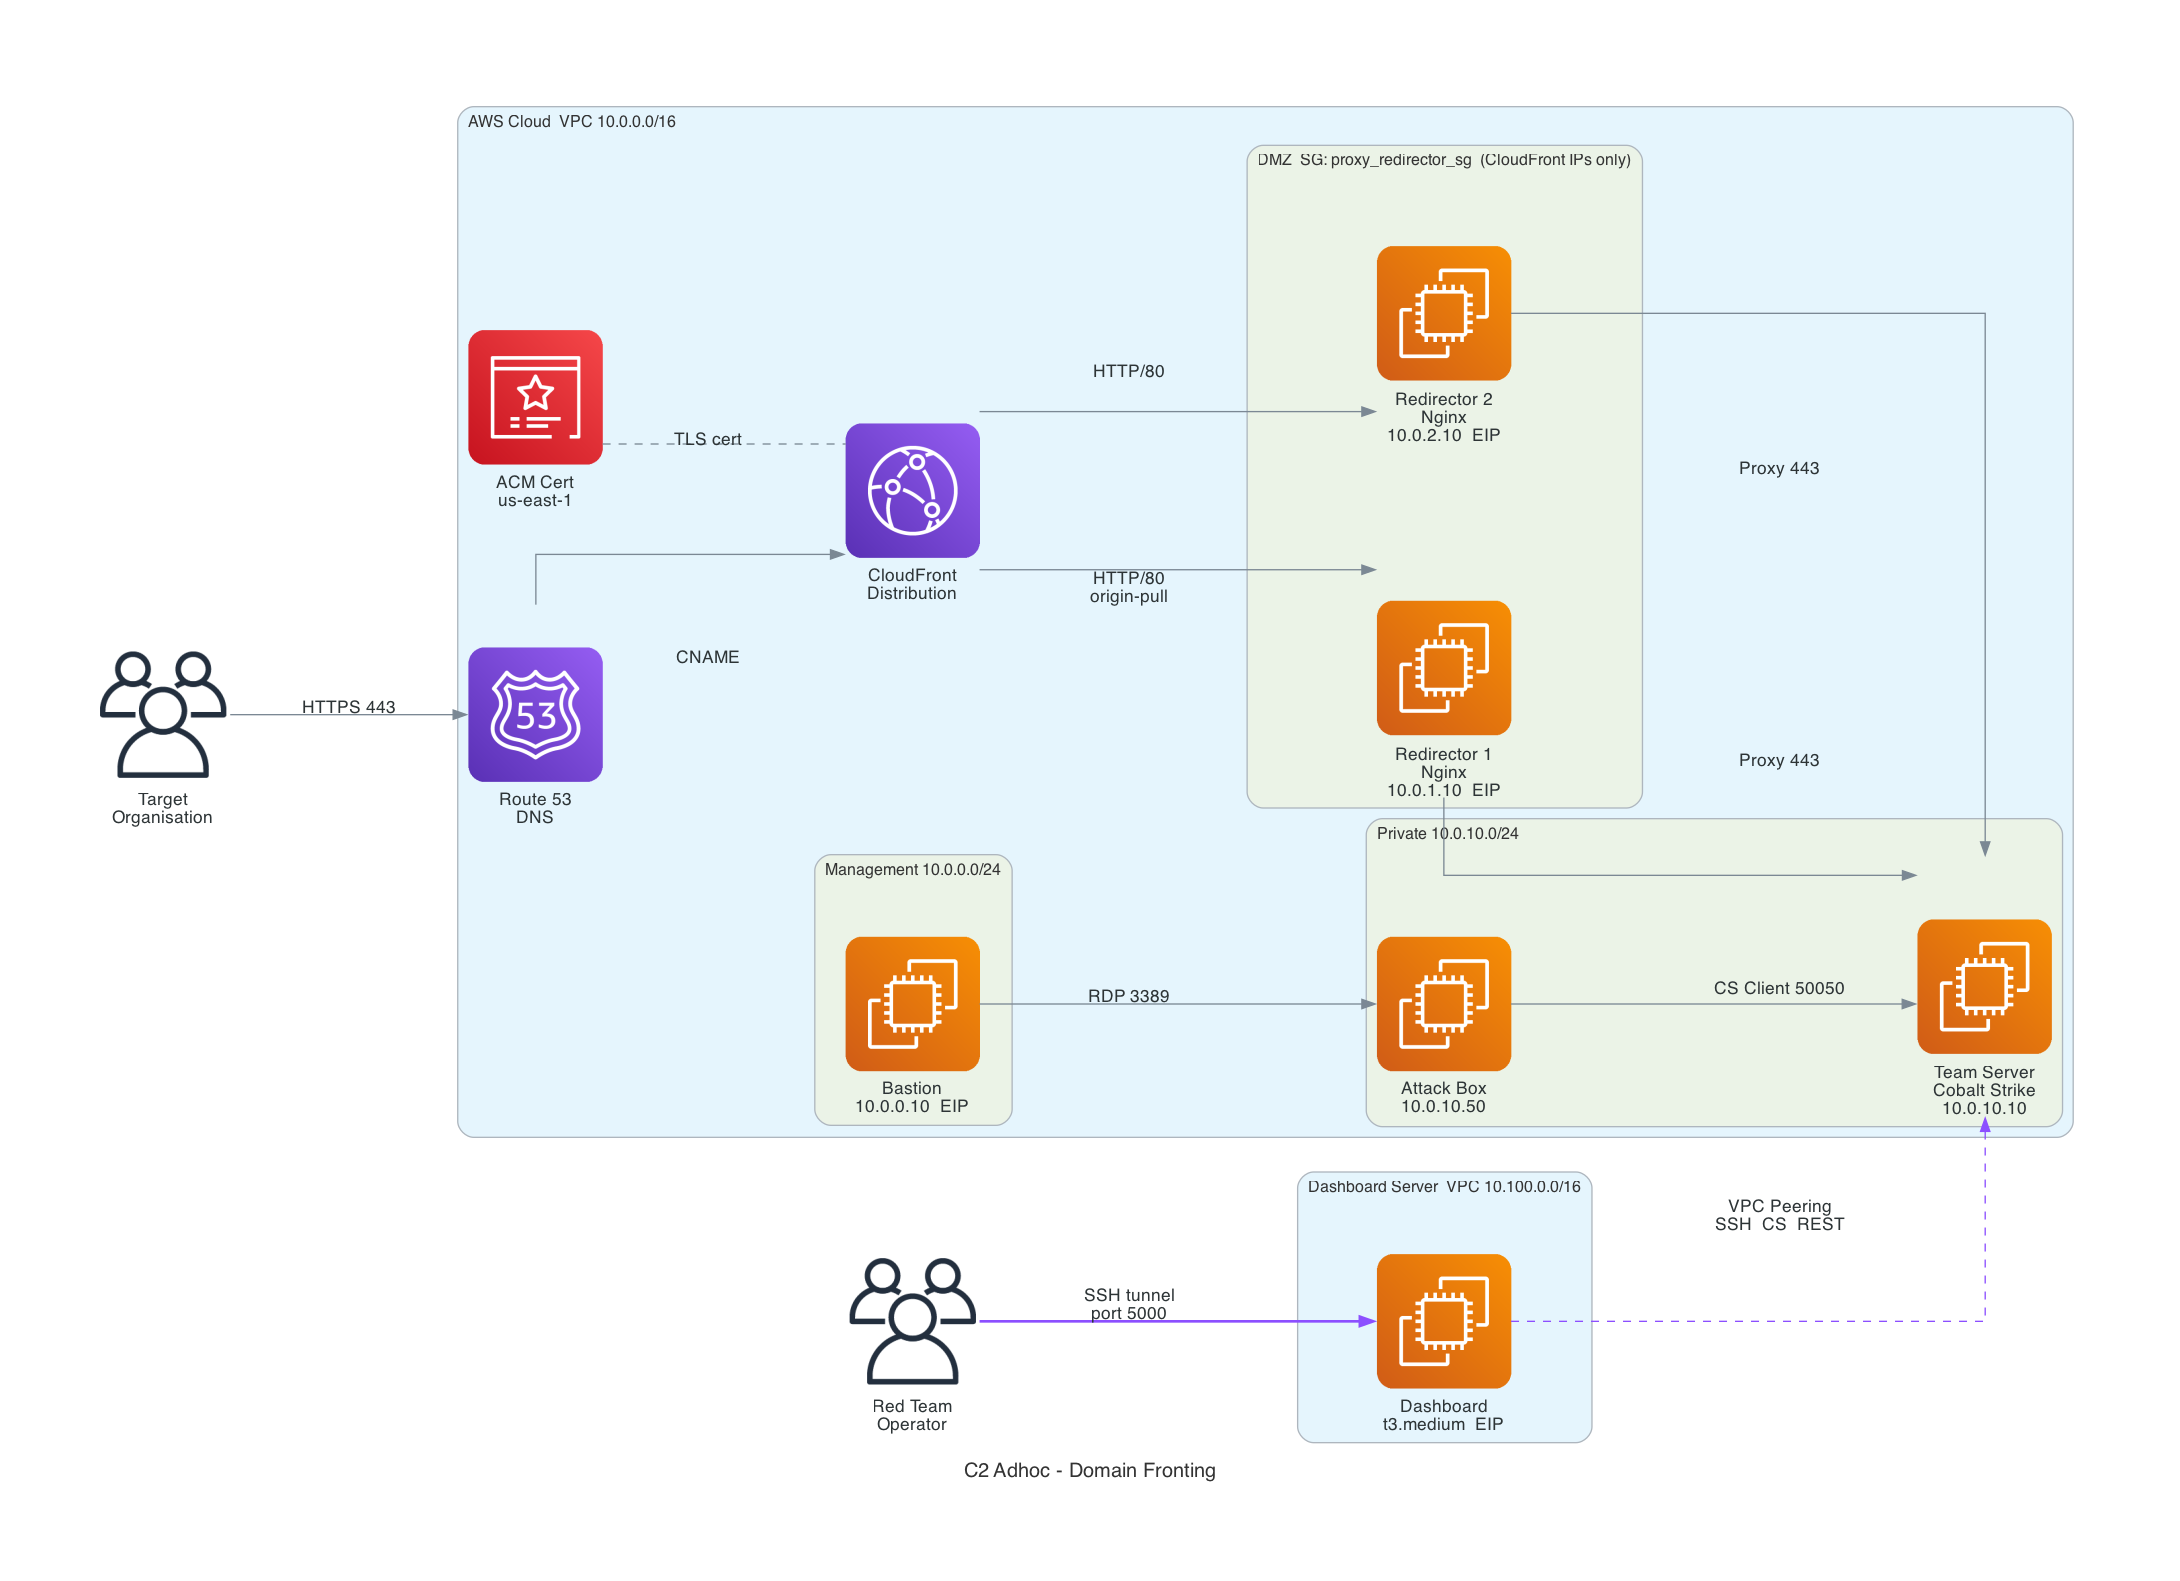
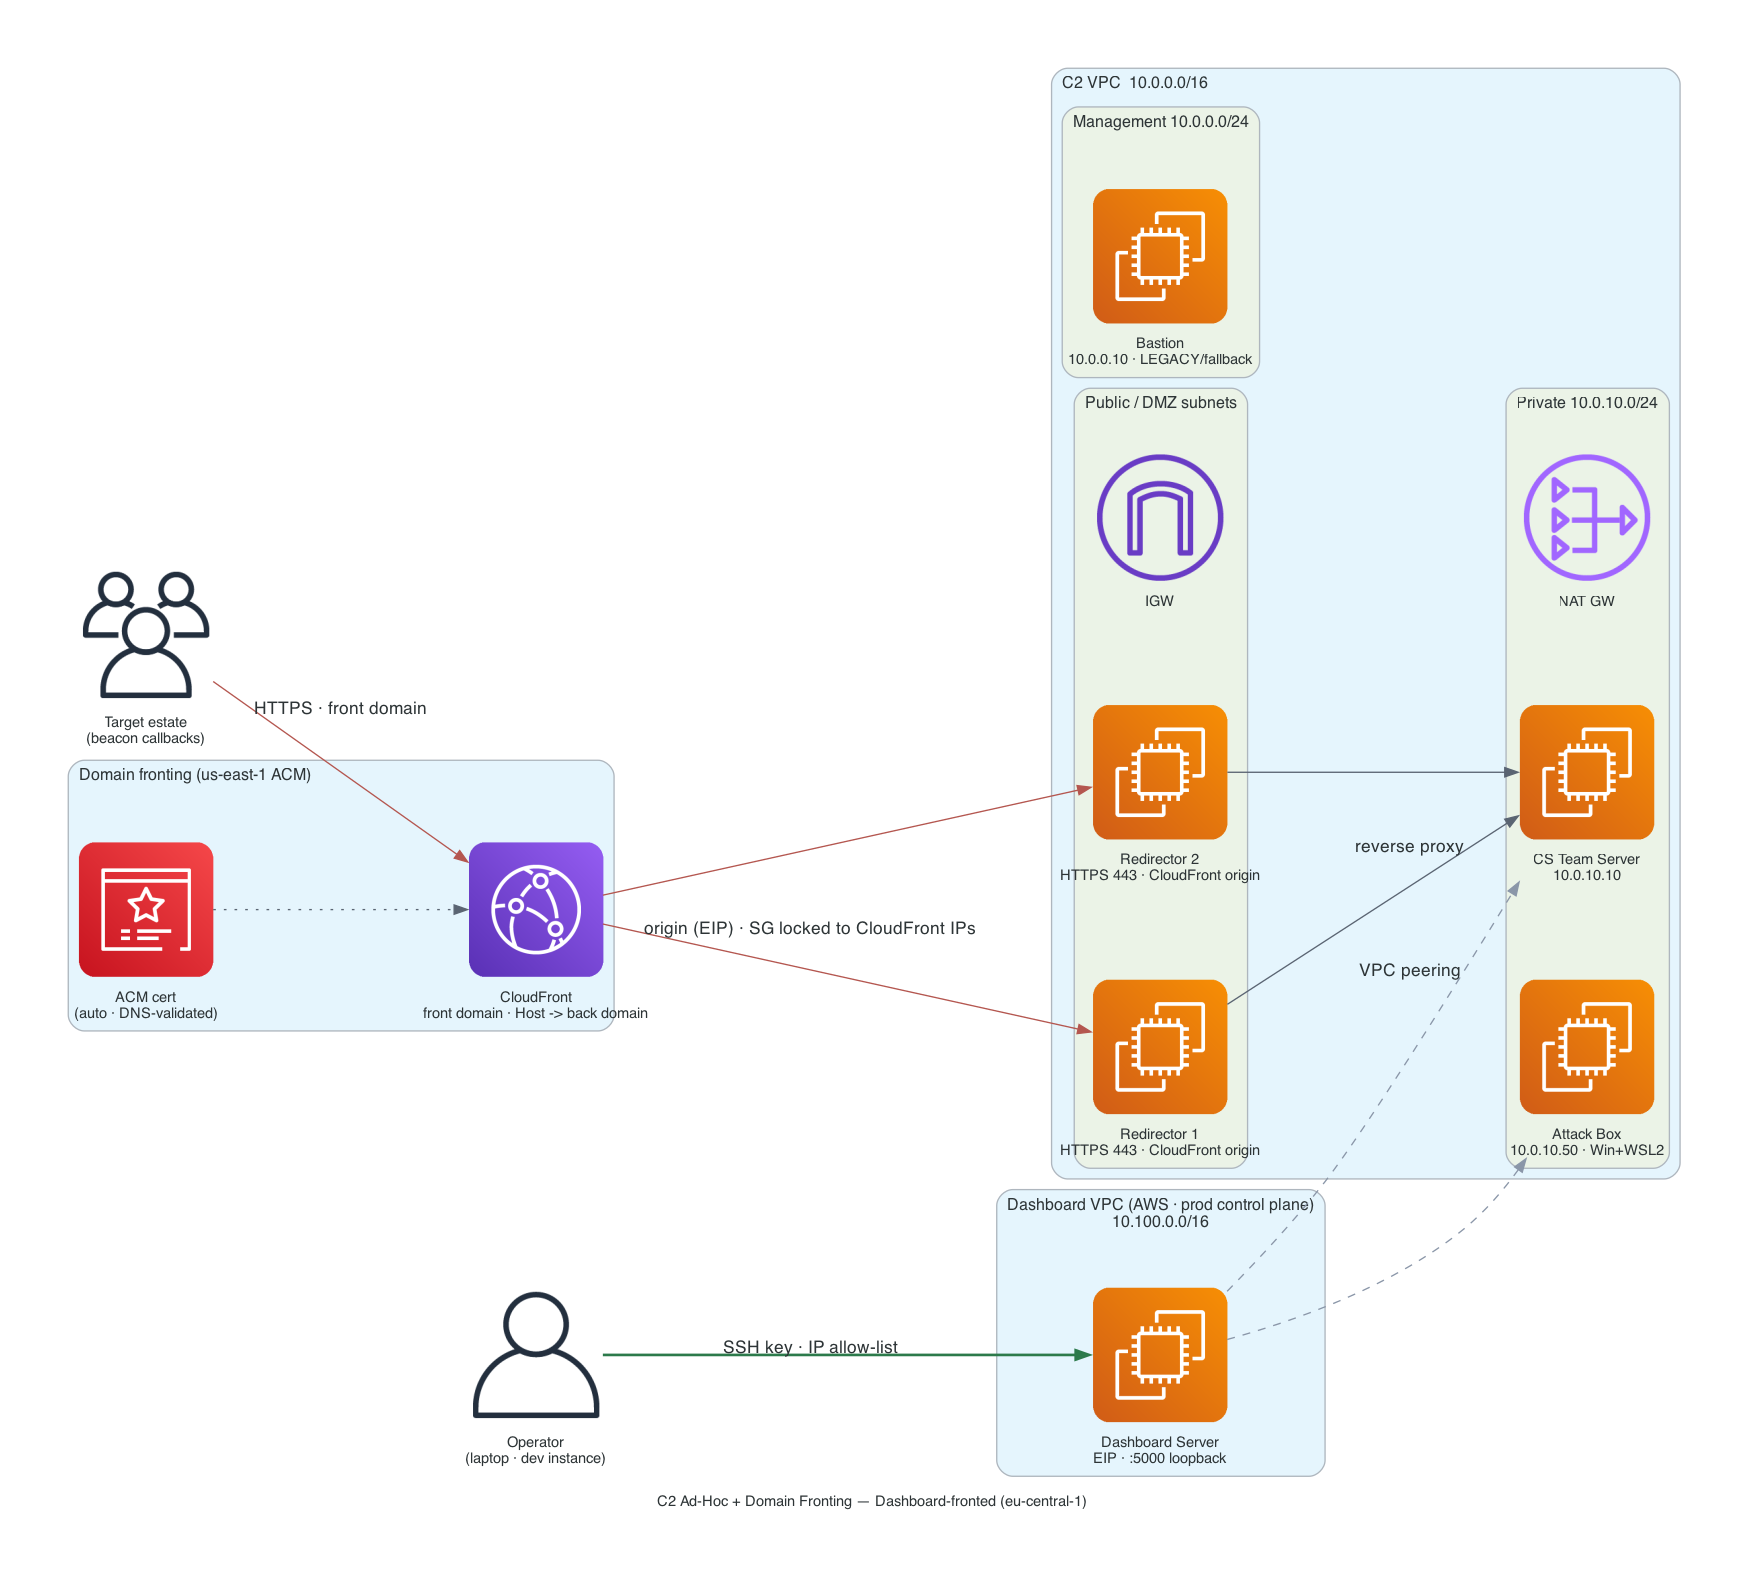
feat(diagrams): regen C2-family for AWS-hosted dashboard hub
c2-purple / c2-full / c2-adhoc-domain-fronting redrawn with the
Dashboard Server (AWS, own VPC, prod control plane) as the hub all
deployments branch from; per-deployment bastion demoted to legacy
fallback. Landscape, AWS icons, scripted via scripts/diagrams/ +
the shared _common.py style (reproducible regens).

diff --git a/scripts/diagrams/diag_c2_full.py b/scripts/diagrams/diag_c2_full.py
@@ -1,0 +1,60 @@
+"""c2-full — 3 phase-based team servers + 2-3 redirectors fronted by a
+CloudFront distribution (domain fronting), plus attack box, all branching
+from the AWS-hosted Dashboard Server.
+
+Phase-based team servers (staging / post-ex / long-haul) at
+10.0.10.10 / .11 / .12. CloudFront sits in front of the redirectors to hide
+their EIPs behind CloudFront edge IPs. The Dashboard Server (own VPC,
+AWS-hosted prod control plane) is the hub all deployments branch from; the
+per-deployment bastion is LEGACY/fallback only.
+"""
+from diagrams import Cluster, Edge
+from diagrams.aws.compute import EC2
+from diagrams.aws.network import InternetGateway, NATGateway, CloudFront
+from diagrams.aws.security import ACM
+from diagrams.onprem.client import Users
+
+from _common import rt_diagram, operator, dashboard_hub, OPERATOR_EDGE, PEERING_EDGE
+
+with rt_diagram("C2 Full — Dashboard-fronted, 3 phase team servers + CloudFront (eu-central-1)", "c2-full-architecture"):
+    target = Users("Target estate\n(beacon callbacks)")
+    op = operator()
+
+    with dashboard_hub() as dash:
+        op >> OPERATOR_EDGE >> dash
+
+    # Domain fronting layer in front of the C2 VPC.
+    with Cluster("Domain fronting (us-east-1 ACM)"):
+        cf = CloudFront("CloudFront\nfront domain · caching off")
+        acm = ACM("ACM cert\n(auto · DNS-validated)")
+        acm >> Edge(style="dotted", color="#5a6472") >> cf
+
+    with Cluster("C2 VPC  10.0.0.0/16"):
+        with Cluster("Public / DMZ subnets"):
+            igw = InternetGateway("IGW")
+            r1 = EC2("Redirector 1\nHTTPS 443 · EIP")
+            r2 = EC2("Redirector 2\nHTTPS 443 · EIP")
+            r3 = EC2("Redirector 3\nHTTPS 443 · EIP")
+        with Cluster("Management 10.0.0.0/24"):
+            bastion = EC2("Bastion\n10.0.0.10 · LEGACY/fallback")
+        with Cluster("Private 10.0.10.0/24"):
+            nat = NATGateway("NAT GW")
+            ts_stage = EC2("Team Server — Staging\n10.0.10.10")
+            ts_postex = EC2("Team Server — Post-Ex\n10.0.10.11")
+            ts_long = EC2("Team Server — Long-Haul\n10.0.10.12")
+            ab = EC2("Attack Box\n10.0.10.50 · Win+WSL2")
+
+        # Dashboard server is the jump into every private instance.
+        dash >> PEERING_EDGE >> ts_stage
+        dash >> Edge(color="#8a96a8", style="dashed") >> ts_postex
+        dash >> Edge(color="#8a96a8", style="dashed") >> ts_long
+        dash >> Edge(color="#8a96a8", style="dashed") >> ab
+
+        # Beacon traffic: target -> CloudFront edge -> redirectors -> team servers.
+        target >> Edge(label="HTTPS · front domain", color="#b4564f") >> cf
+        cf >> Edge(label="origin (EIP)", color="#b4564f") >> r1
+        cf >> Edge(color="#b4564f") >> r2
+        cf >> Edge(color="#b4564f") >> r3
+        r1 >> Edge(label="reverse proxy", color="#5a6472") >> ts_stage
+        r2 >> Edge(color="#5a6472") >> ts_postex
+        r3 >> Edge(color="#5a6472") >> ts_long

diff --git a/scripts/diagrams/diag_c2_adhoc_domain_fronting.py b/scripts/diagrams/diag_c2_adhoc_domain_fronting.py
@@ -1,0 +1,52 @@
+"""c2-adhoc + domain fronting — the single-team-server ad-hoc topology with a
+CloudFront distribution in front of the redirectors.
+
+Operator -> Dashboard hub -> C2 VPC for management. Beacon path: target ->
+CloudFront edge (front domain, Host header -> back domain) -> redirector
+origins -> CS team server. ACM provides the public-facing cert (auto,
+DNS-validated, no Let's Encrypt needed). The Dashboard Server (own VPC,
+AWS-hosted prod control plane) is the hub all deployments branch from; the
+per-deployment bastion is LEGACY/fallback only.
+"""
+from diagrams import Cluster, Edge
+from diagrams.aws.compute import EC2
+from diagrams.aws.network import InternetGateway, NATGateway, CloudFront
+from diagrams.aws.security import ACM
+from diagrams.onprem.client import Users
+
+from _common import rt_diagram, operator, dashboard_hub, OPERATOR_EDGE, PEERING_EDGE
+
+with rt_diagram("C2 Ad-Hoc + Domain Fronting — Dashboard-fronted (eu-central-1)", "c2-adhoc-domain-fronting"):
+    target = Users("Target estate\n(beacon callbacks)")
+    op = operator()
+
+    with dashboard_hub() as dash:
+        op >> OPERATOR_EDGE >> dash
+
+    # Domain fronting layer in front of the C2 VPC.
+    with Cluster("Domain fronting (us-east-1 ACM)"):
+        cf = CloudFront("CloudFront\nfront domain · Host -> back domain")
+        acm = ACM("ACM cert\n(auto · DNS-validated)")
+        acm >> Edge(style="dotted", color="#5a6472") >> cf
+
+    with Cluster("C2 VPC  10.0.0.0/16"):
+        with Cluster("Public / DMZ subnets"):
+            igw = InternetGateway("IGW")
+            r1 = EC2("Redirector 1\nHTTPS 443 · CloudFront origin")
+            r2 = EC2("Redirector 2\nHTTPS 443 · CloudFront origin")
+        with Cluster("Management 10.0.0.0/24"):
+            bastion = EC2("Bastion\n10.0.0.10 · LEGACY/fallback")
+        with Cluster("Private 10.0.10.0/24"):
+            nat = NATGateway("NAT GW")
+            ts = EC2("CS Team Server\n10.0.10.10")
+            ab = EC2("Attack Box\n10.0.10.50 · Win+WSL2")
+
+        # Dashboard server is the jump into every private instance.
+        dash >> PEERING_EDGE >> ts
+        dash >> Edge(color="#8a96a8", style="dashed") >> ab
+        # Beacon traffic: target -> CloudFront edge -> redirector origins -> team server.
+        target >> Edge(label="HTTPS · front domain", color="#b4564f") >> cf
+        cf >> Edge(label="origin (EIP) · SG locked to CloudFront IPs", color="#b4564f") >> r1
+        cf >> Edge(color="#b4564f") >> r2
+        r1 >> Edge(label="reverse proxy", color="#5a6472") >> ts
+        r2 >> Edge(color="#5a6472") >> ts

diff --git a/scripts/diagrams/diag_c2_purple.py b/scripts/diagrams/diag_c2_purple.py
@@ -1,0 +1,44 @@
+"""c2-purple — 2 team servers (redundancy) + 2 redirectors + attack box,
+fronted by the AWS-hosted Dashboard Server.
+
+Same topology as the c2-adhoc reference but with TWO team servers
+(10.0.10.10 + 10.0.10.11) for redundancy / multi-operator high availability.
+The Dashboard Server (own VPC, AWS-hosted prod control plane) is the hub all
+deployments branch from; the per-deployment bastion is LEGACY/fallback only.
+"""
+from diagrams import Cluster, Edge
+from diagrams.aws.compute import EC2
+from diagrams.aws.network import InternetGateway, NATGateway
+from diagrams.onprem.client import Users
+
+from _common import rt_diagram, operator, dashboard_hub, OPERATOR_EDGE, PEERING_EDGE
+
+with rt_diagram("C2 Purple — Dashboard-fronted, 2 team servers (eu-central-1)", "c2-purple-architecture"):
+    target = Users("Target estate\n(beacon callbacks)")
+    op = operator()
+
+    with dashboard_hub() as dash:
+        op >> OPERATOR_EDGE >> dash
+
+    with Cluster("C2 VPC  10.0.0.0/16"):
+        with Cluster("Public / DMZ subnets"):
+            igw = InternetGateway("IGW")
+            r1 = EC2("Redirector 1\nHTTPS 443 · EIP")
+            r2 = EC2("Redirector 2\nHTTPS 443 · EIP")
+        with Cluster("Management 10.0.0.0/24"):
+            bastion = EC2("Bastion\n10.0.0.10 · LEGACY/fallback")
+        with Cluster("Private 10.0.10.0/24"):
+            nat = NATGateway("NAT GW")
+            ts1 = EC2("CS Team Server 1\n10.0.10.10")
+            ts2 = EC2("CS Team Server 2\n10.0.10.11 · redundant")
+            ab = EC2("Attack Box\n10.0.10.50 · Win+WSL2")
+
+        # Dashboard server is the jump into every private instance.
+        dash >> PEERING_EDGE >> ts1
+        dash >> Edge(color="#8a96a8", style="dashed") >> ts2
+        dash >> Edge(color="#8a96a8", style="dashed") >> ab
+        # Beacon traffic: target -> redirectors -> team servers (HA pair).
+        target >> Edge(label="HTTPS 443", color="#b4564f") >> r1
+        target >> Edge(color="#b4564f") >> r2
+        r1 >> Edge(label="reverse proxy", color="#5a6472") >> ts1
+        r2 >> Edge(color="#5a6472") >> ts2
